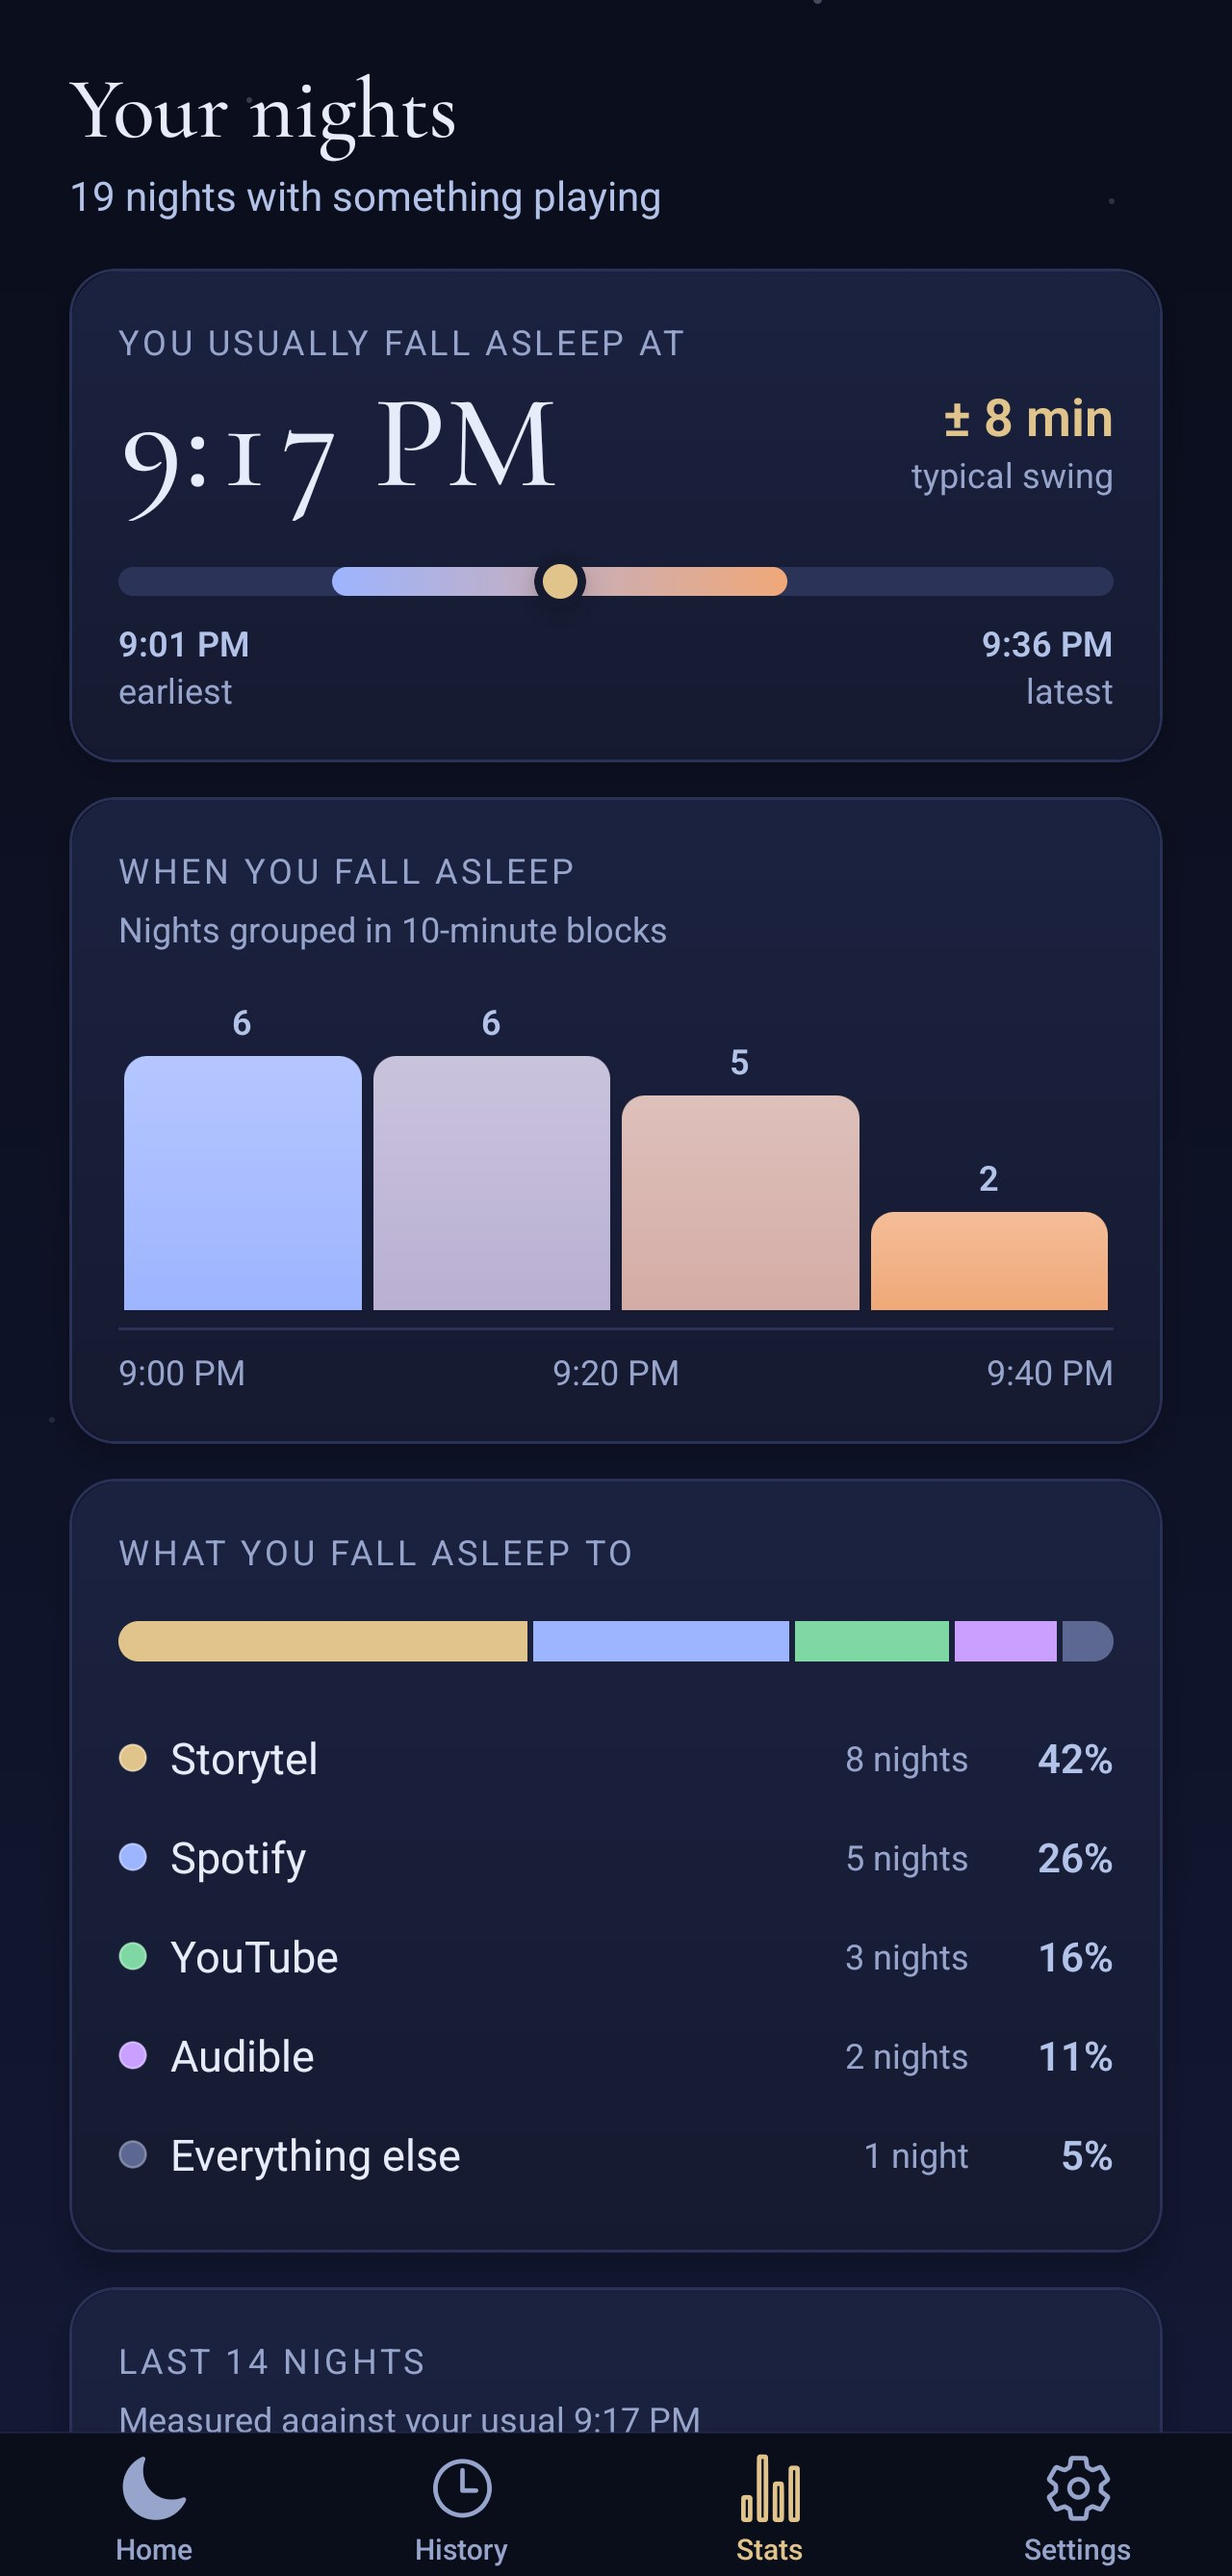
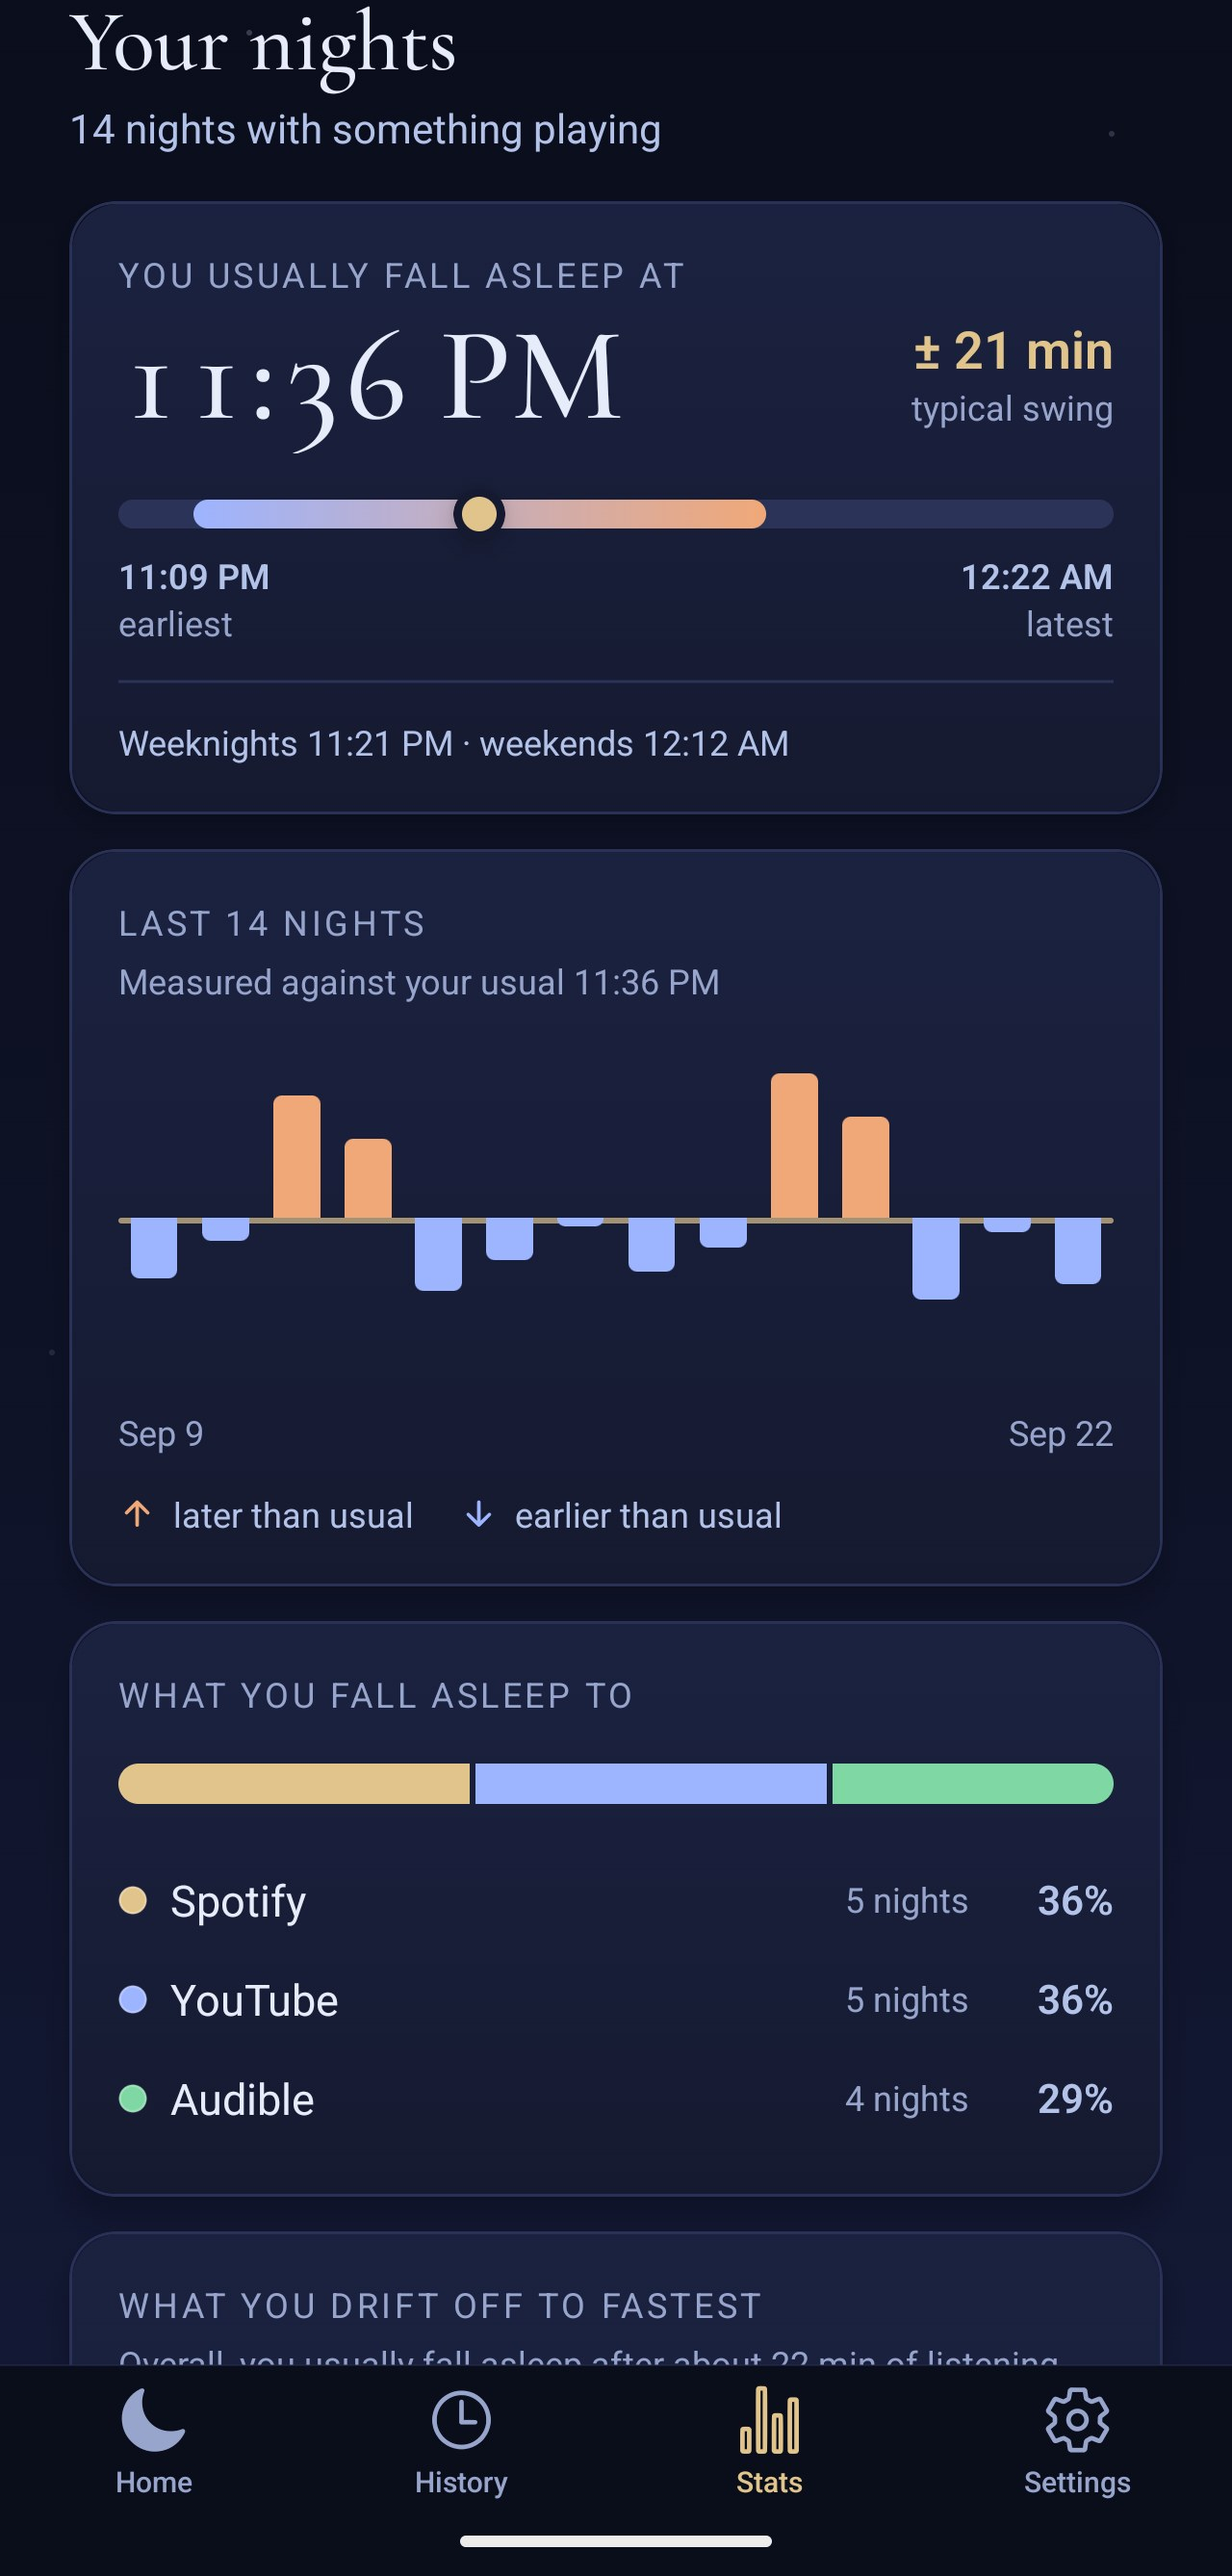
site: new app screenshots (1.0.3), current toggle names, Stats copy

Changed region(s): [[0.0, 0.0, 1.0, 1.0]]

diff --git a/index.html b/index.html
@@ -120,7 +120,7 @@
           <li><span><strong>Runs in the background</strong> - arm once, no nightly launch.</span></li>
           <li><span><strong>Shows your pattern</strong> - after a few nights, Stats tells you when you usually fall asleep and what you fall asleep to.</span></li>
           <li><span><strong>Private by design</strong> - no account, no ads, no cloud. Everything stays on your own devices.</span></li>
-          <li><span><strong>Optional "always ready" mode</strong> - pause on sleep without pressing start.</span></li>
+          <li><span><strong>Optional automatic sleep detection</strong> - pause on sleep without pressing start.</span></li>
           <li><span><strong>Got it wrong? One tap undoes it</strong> - your audio resumes right where it stopped.</span></li>
         </ul>
       </div>
@@ -163,7 +163,7 @@
             <div class="phone-pair">
               <div class="phone-pair-item">
                 <div class="phone-frame">
-                  <img src="assets/phone-home.jpg" alt="SleepStop Home screen in Smartwatch mode: status, a sleep-hours summary, a watch-app link, and always-ready and wind-the-sound-back toggles" />
+                  <img src="assets/phone-home.jpg" alt="SleepStop Home screen in Smartwatch mode: status, a watch-app and sleep-hours summary, and the Automatic sleep detection and Rewind to when I fell asleep toggles, each with an info button" />
                 </div>
                 <p class="pair-label">With a Smartwatch</p>
               </div>
@@ -179,7 +179,7 @@
           <div class="feature-text">
             <p class="eyebrow">Set it and forget it</p>
             <h3>Arm it once, not every night.</h3>
-            <p>With a Smartwatch, turn on "always ready" and SleepStop waits quietly in the
+            <p>With a Smartwatch, turn on "Automatic sleep detection" and SleepStop waits quietly in the
               background - no opening the app before bed. Just your phone? Pick "when I
               drift off" or "after a set time" on the very same screen, dial in the exact
               minutes, and press start when you're ready to sleep.</p>
@@ -211,7 +211,7 @@
         <div class="feature-row">
           <div class="feature-media">
             <div class="phone-frame">
-              <img src="assets/phone-stats.jpg" alt="SleepStop Stats screen: 'You usually fall asleep at 11:24 PM, ± 21 min', a histogram of bedtimes in 30-minute blocks, and a breakdown of the apps you fall asleep to" />
+              <img src="assets/phone-stats.jpg" alt="SleepStop Stats screen: 'You usually fall asleep at 11:36 PM, ± 21 min', weeknights versus weekends, the last 14 nights against your usual time, and the apps you fall asleep to" />
             </div>
             <p class="feature-caption">Stats - your usual bedtime, in numbers</p>
           </div>
@@ -219,8 +219,9 @@
             <p class="eyebrow">Your pattern</p>
             <h3>Find out when you actually fall asleep.</h3>
             <p>After a few nights, Stats adds it up: the time you usually drift off and
-              how much it swings, which apps you fall asleep to, and whether the last two
-              weeks ran earlier or later than usual. It counts one point per night, and
+              how much it swings, weeknights against weekends, whether the last two weeks
+              ran earlier or later than usual, which apps you fall asleep to - and which
+              one sends you off fastest. It counts one point per night, and
               only nights when something was really playing - so it describes your
               listening habits, not your sleep.</p>
           </div>
@@ -229,7 +230,7 @@
         <div class="feature-row">
           <div class="feature-media">
             <div class="phone-frame">
-              <img src="assets/phone-settings.jpg" alt="SleepStop Settings screen: a phone-or-watch source picker, your watch brand with its own setup steps, and a sleep-hours row" />
+              <img src="assets/phone-settings.jpg" alt="SleepStop Settings screen: a phone-or-watch source picker, the subscription, then grouped rows for your watch brand, its setup steps and your sleep hours, and help, privacy and contact" />
             </div>
             <p class="feature-caption">Settings - pick your source, set your hours</p>
           </div>

diff --git a/privacy.html b/privacy.html
@@ -93,7 +93,7 @@
               not read, record, or transmit the audio itself.</li>
             <li><strong>Notification access (a special permission you grant separately, not a
               pop-up)</strong> - SleepStop asks for this so it can see which app is playing and its
-              track title/position. With a watch, that is what lets <em>Wind the sound back</em>
+              track title/position. With a watch, that is what lets <em>Rewind to when I fell asleep</em>
               seek the audio to roughly where you fell asleep and undo a mute you tap "I was
               awake" on. Without a watch, it is what lets History and Stats name the app and
               show where the audio was left (<em>What you fall asleep to</em>) - nothing is wound
@@ -163,7 +163,7 @@
               watch receiver running while your music app is in front and the screen is off;
               this is what lets muting work at night.</li>
             <li><strong>Notification access</strong> (see above) - optional; powers
-              <em>Wind the sound back</em> and the undo offer with a watch, and the app name in
+              <em>Rewind to when I fell asleep</em> and the undo offer with a watch, and the app name in
               History and Stats without one.</li>
             <li><strong>Post notifications</strong> - to display the required ongoing
               foreground-service notification, and the brief undo offer after a mute.</li>
@@ -176,7 +176,7 @@
               steps back through several chapters, a few seconds at most, so the sequence
               cannot stall for minutes if the phone falls back asleep mid-sequence.</li>
             <li><strong>Run at startup</strong> - only if you left watch muting switched on (a session
-              in progress, or <em>Always ready</em>): after the phone restarts or SleepStop is
+              in progress, or <em>Automatic sleep detection</em>): after the phone restarts or SleepStop is
               updated, the watch receiver is started again on its own, so that night is not
               silently lost until you next open the app. Otherwise it does nothing.</li>
             <li><strong>Vibrate</strong> - for optional feedback.</li>
